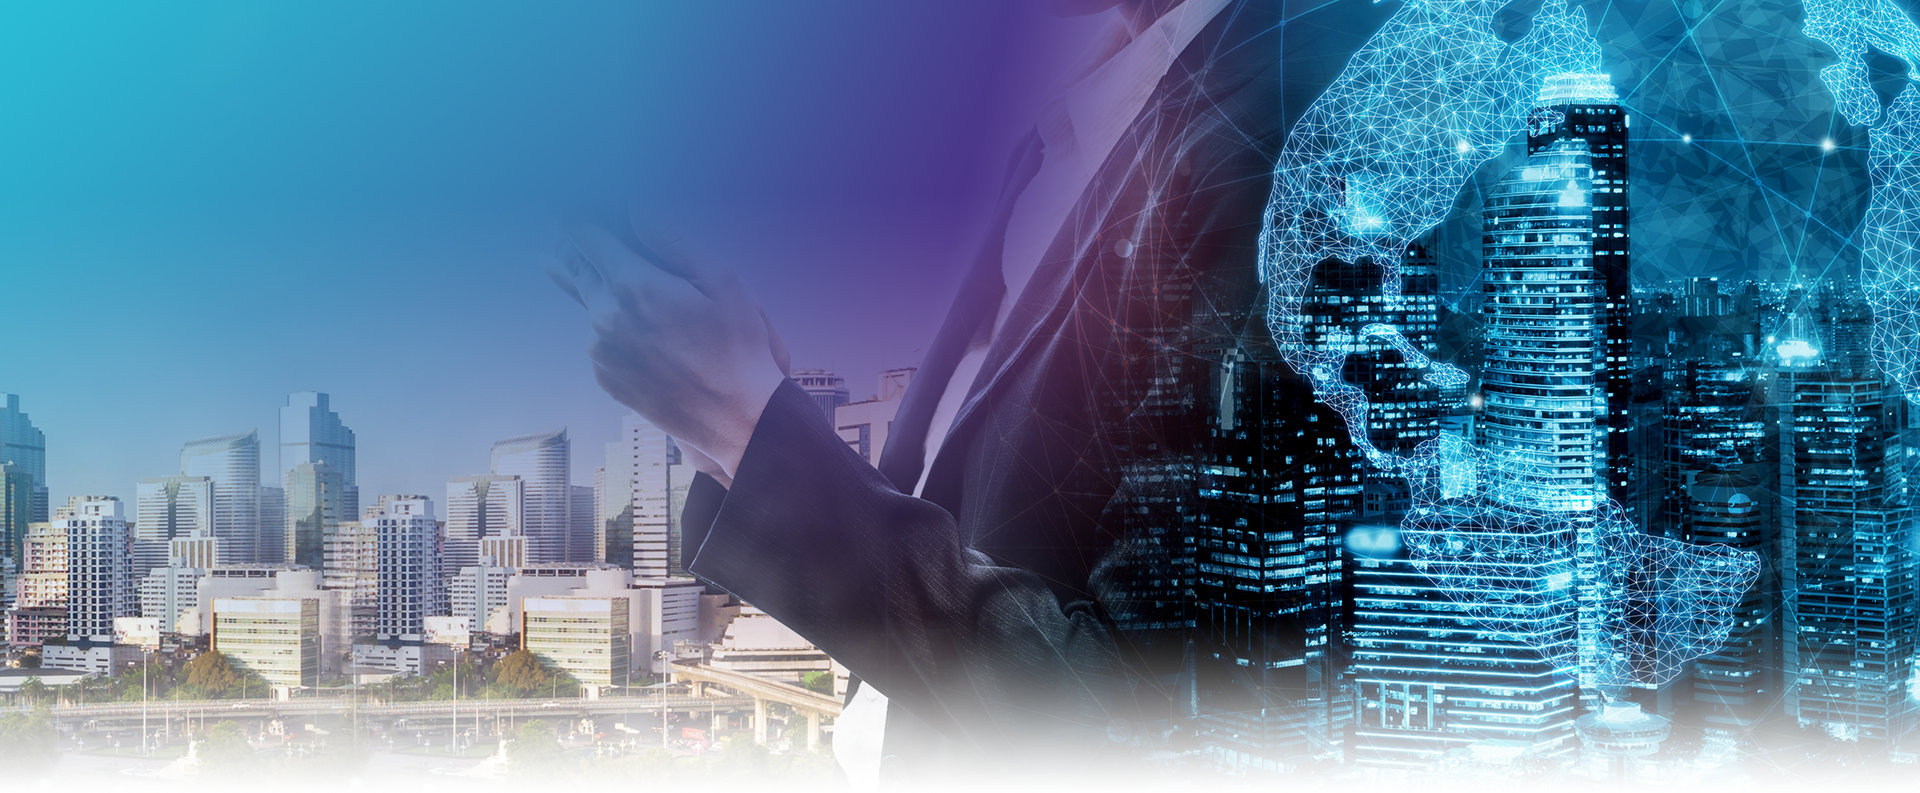
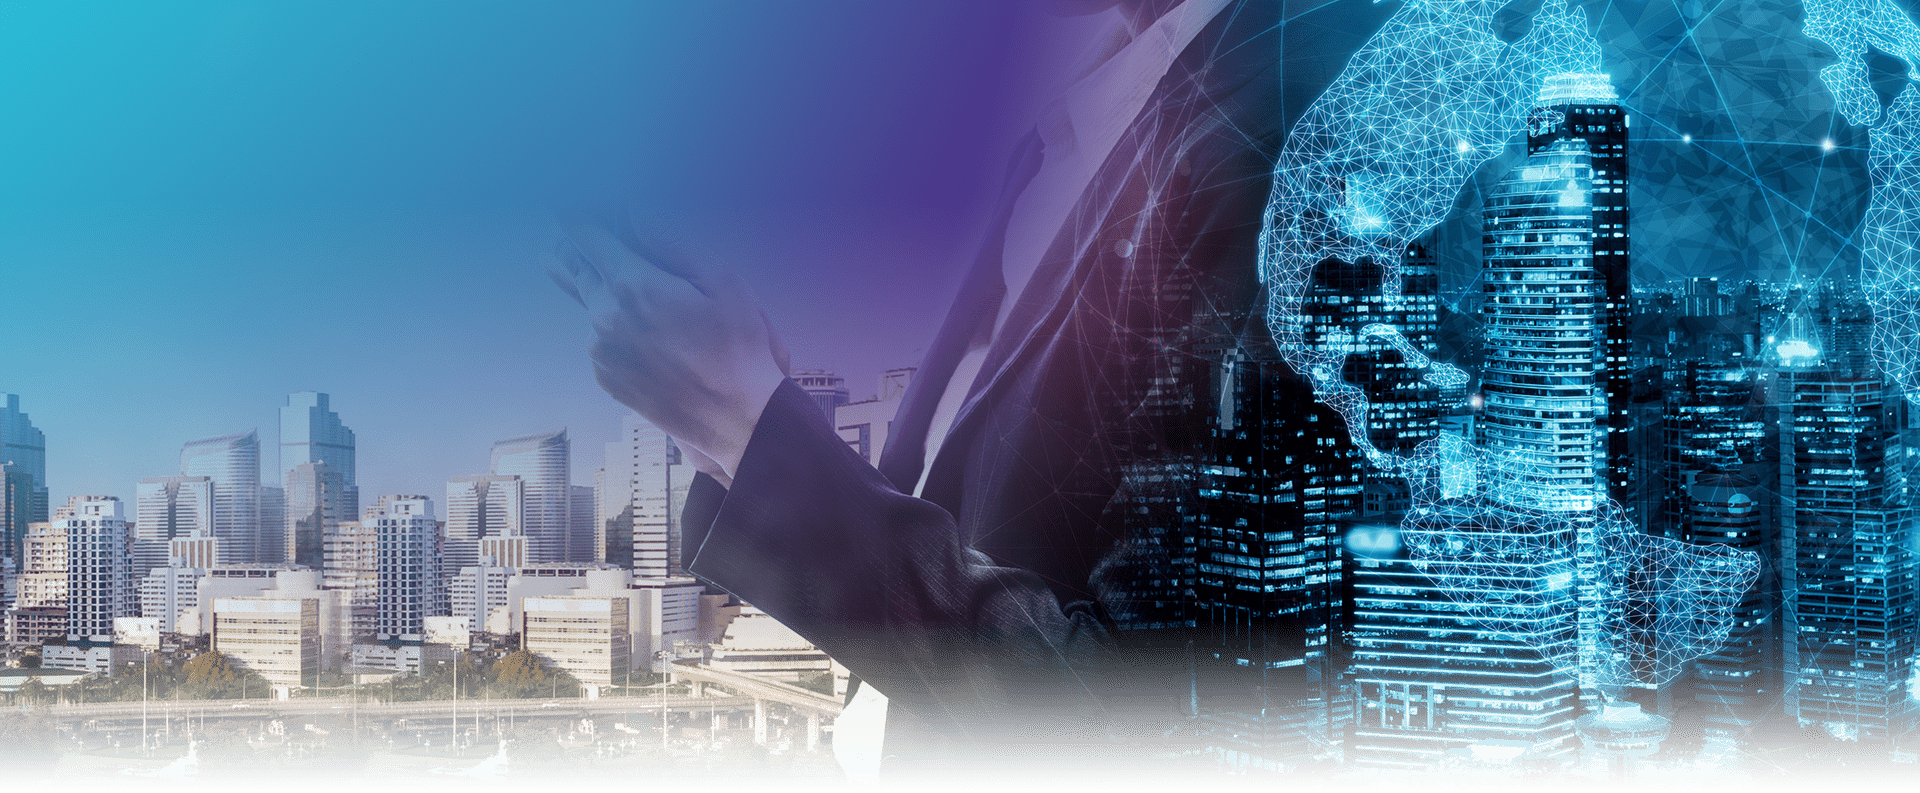
2021-0518 3更-圖片大小減量

diff --git a/index.htm b/index.htm
@@ -24,6 +24,7 @@
             display: block;
             margin: 0px auto;
             max-width: 300px;
+            padding: 1em 0;
             float: left;
             margin-right: 1em
         }
@@ -74,7 +75,7 @@
 </head>
 <body>
     <div class="demo_wrap">
-        <h1><img src="images/logo.png" alt=""></h1>
+        <h1><img src="images/logo-demo.png" alt=""></h1>
         <!-- <div class="btn_grp">
             <a href="https://github.com/HywebU00/hyui_flex" class="btn">切版檔案請按此下載</a>
         </div> -->
@@ -94,18 +95,18 @@
                         <td></td>
                         <td>大陸地區人民申請來臺<br>從事商務活動(跨國企業)線上申辦</td>
                         <!-- 連結放到a裡面就好 -->
-                        <td><a href="mp_A.htm"></a></td>
+                        <td><a href="mp_A.htm" target="_blank"></a></td>
                     </tr>
                     <tr>
                         <td></td>
                         <td>大陸地區人民申請來臺<br>從事專業參訪線上申辦</td>
                         <!-- 連結放到a裡面就好 -->
-                        <td><a href="mp_B.htm"></a></td>
+                        <td><a href="mp_B.htm" target="_blank"></a></td>
                     </tr>
                     <tr>
                         <td></td>
                         <td>大陸地區人民申請入出金門馬祖澎湖<br>從事藝文商務交流線上申辦</td>
-                        <td><a href="mp_C.htm"></a></td>
+                        <td><a href="mp_C.htm" target="_blank"></a></td>
                     </tr>
                 </tbody>
             </table>
